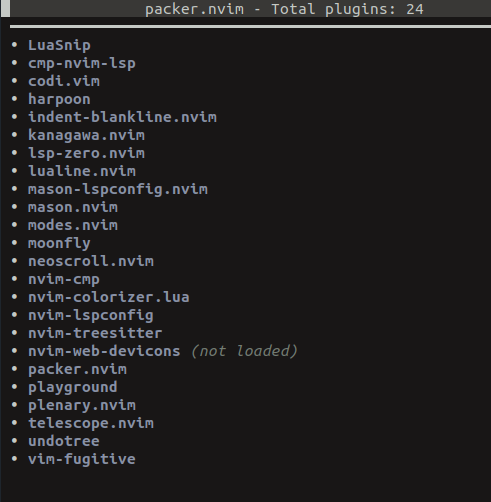
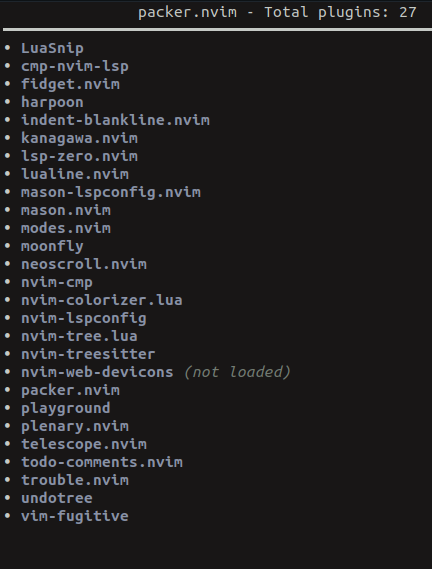
Update: new nvim config

Changed region(s): [[0.0, 0.0, 1.0, 0.9263], [0.3912, 0.6275, 0.6921, 0.7171], [0.3611, 0.508, 0.4213, 0.5378]]

diff --git a/README.md b/README.md
@@ -5,8 +5,8 @@
 #
 
 colorscheme: kanagawa-dragon
-
 lualine/modes: moonfly
+Nerd hack font for nvim-tree icons to correctly show
 
 ### To-Do
 
